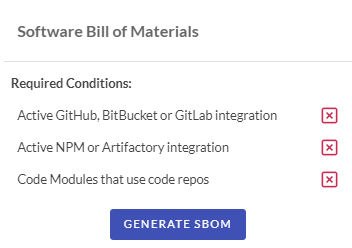
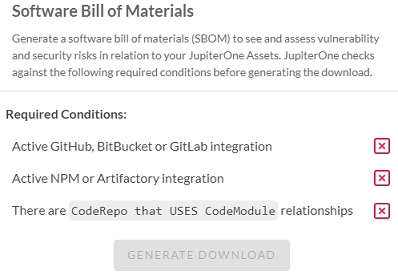
DOC-74 SBOM
New article.

diff --git a/knowledgeBase/asset-management/sbom.md b/knowledgeBase/asset-management/sbom.md
@@ -1,0 +1,38 @@
+# Generating a Software Bill of Materials (SBOM)
+
+A software bill of materials (SBOM) allows you to quickly see and assess vulnerability and security risks in your organization. JupiterOne generates a SBOM for the assets you have configured with J1, examining the list of vulnerabilities in relation to your assets.
+
+### Prerequisite
+
+To generate the SBOM file, you must have Administrator access to your assets. Your environment must also contain:
+
+- An active GitHub, BitBucket, or GitLab integration in J1
+- An active NPM or Artifactory integration in J1
+- `CodeRepo that USES CodeModule` relationships for your integrated GitHub, BitBucket, or GitLab integrations
+
+### SBOM File
+
+To generate an SBOM:
+
+1. In J1, go to **Apps ![](../assets/icons/apps.png) > Assets**.
+
+2. In the top-right corner, click **Generate SBOM**.
+   
+
+   ![](../assets/sbom.png)
+
+   
+
+3. If you have met the prerequisite criteria above, then you can click Generate Download, and J1 downloads the SBOM in the form of a JSON file.
+
+If you do not meet any of the prerequisite criteria, you see a red X next to the criteria. Click the red X for more information about the error.
+
+
+
+![](../assets/sbom_errors.png)
+
+
+Follow the corrective instructions in the error message, and try to generate your SBOM again.
+
+
+![](../assets/sbom_code_repo_error.png)
